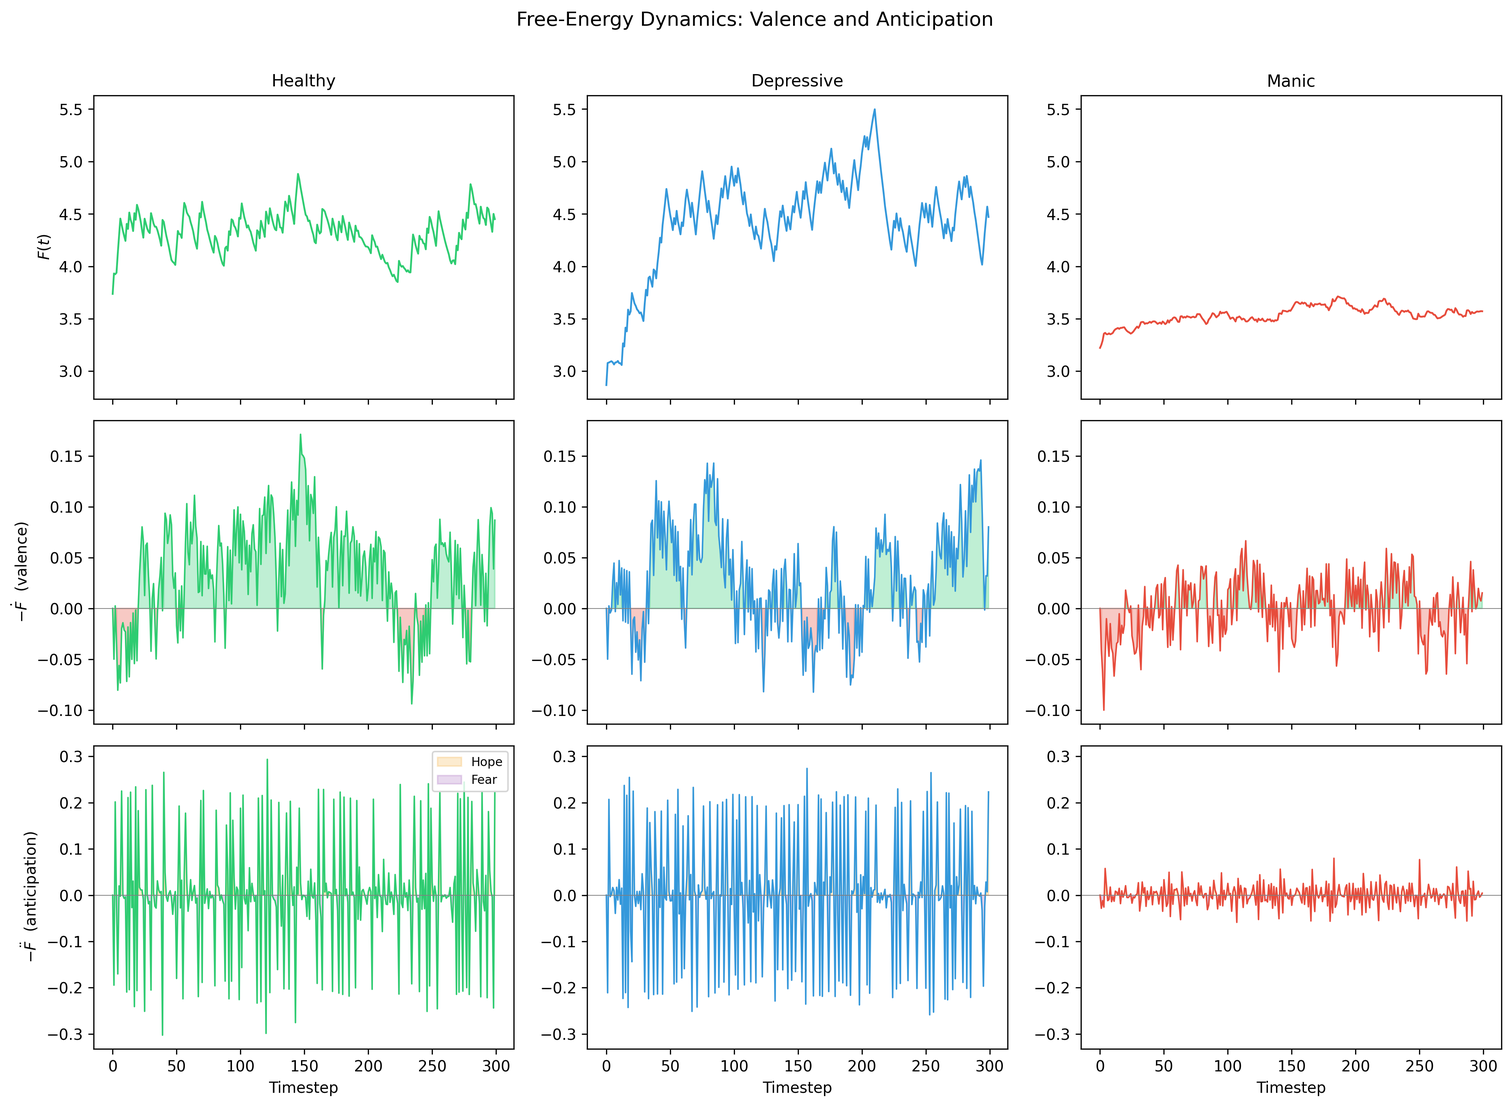
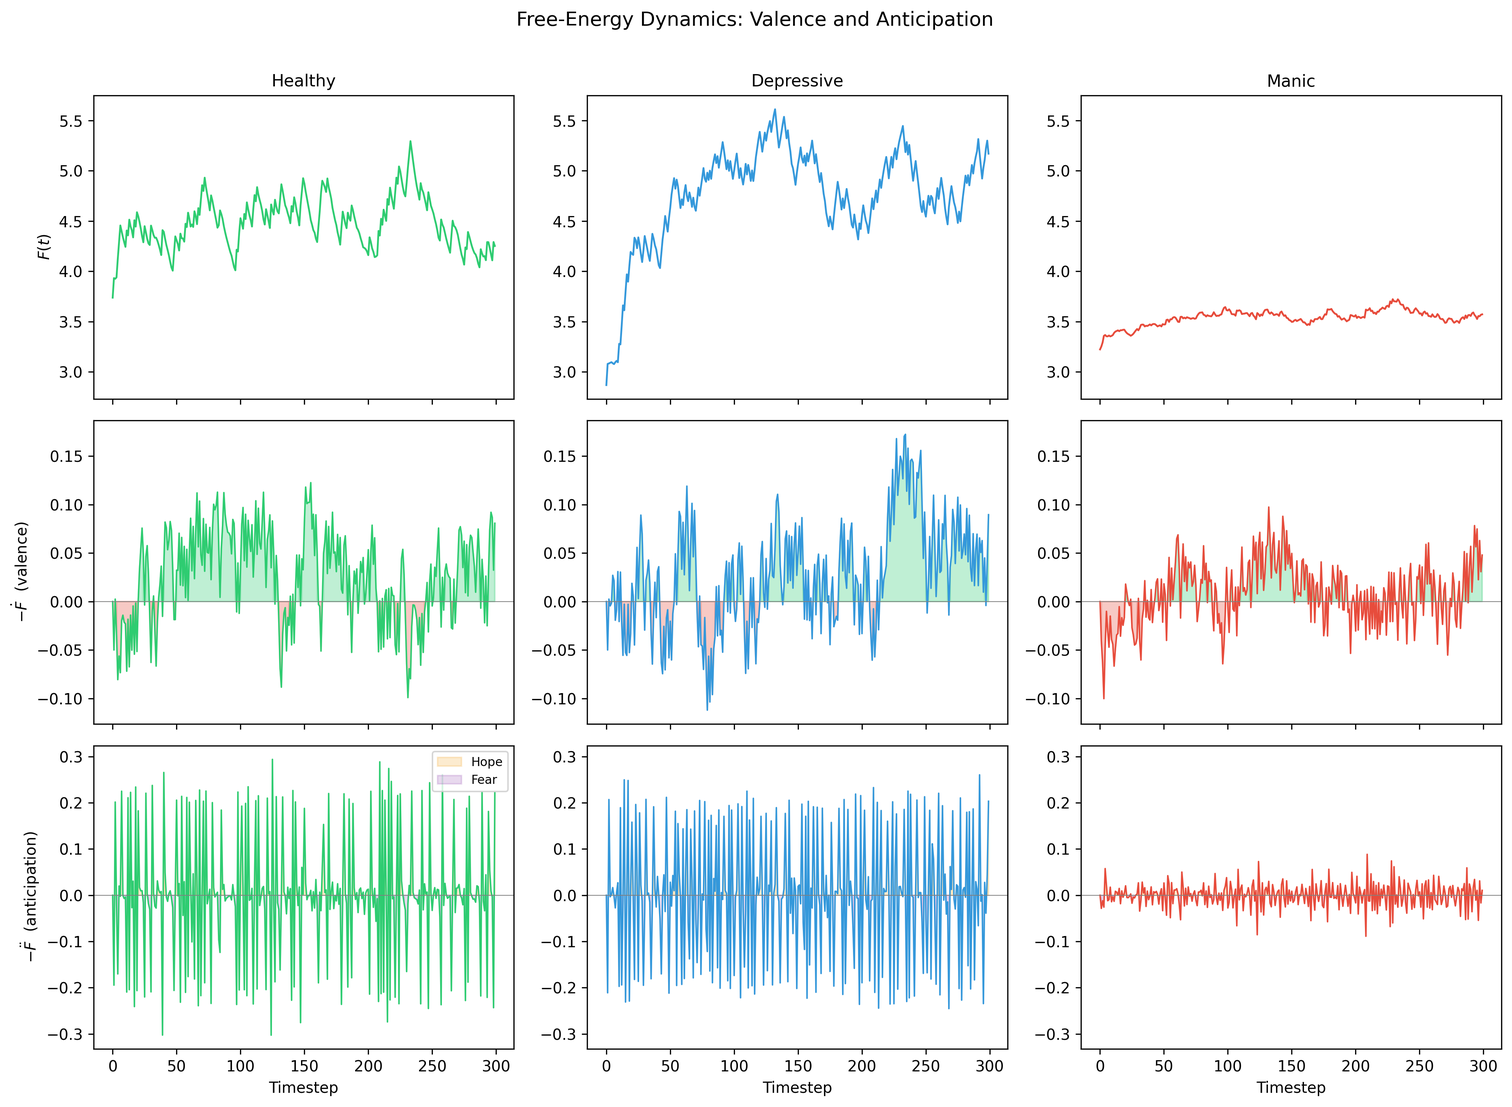
Split BLANK into DISSOCIATE + ABSTRACT (6 actions)
DISSOCIATE: dissociative shutdown (flat affect, present-locked)
ABSTRACT: effortful ungrounded cognition (future-pulling, couples
with FUTURATE to form a second hedonic route)

Two hedonic routes:
- Grounded: FEEL -> RECALL -> FUTURATE (body -> past -> future)
- Ungrounded: ABSTRACT -> FUTURATE (abstract -> future)

B-matrices for ABSTRACT:
- Valence: 35% stay + 65% pull toward 70% max (moderate positive)
- Energy: delta=0 (cost is attentional, not metabolic)
- Frame: 60-80% FUTURE (implicit ABSTRACT->FUTURATE coupling)

Results (vulnerable profile):
- DISSOCIATE=14.3%, ABSTRACT=11.3% (healthy: 1.3%, 3.7%)
- Two distinct failure modes: shutdown vs ungrounded spinning
- Maps onto dissociation vs psychosis clinically

All 15 figures regenerated.

diff --git a/plotting.py b/plotting.py
@@ -20,8 +20,8 @@ Figure 12 – Chronic stress        (stressed vs healthy: frame beliefs,
 import numpy as np
 import matplotlib.pyplot as plt
 from generative_model import (ACTION_NAMES, N_ACTIONS, FUTURATE, RECALL,
-                              ENGAGE, FEEL, BLANK, FRAME_NAMES,
-                              N_MOOD, MOOD_BIN_CENTERS)
+                              ENGAGE, FEEL, DISSOCIATE, ABSTRACT,
+                              FRAME_NAMES, N_MOOD, MOOD_BIN_CENTERS)
 
 # ── Style ──────────────────────────────────────────────────
 plt.rcParams.update({
@@ -30,7 +30,7 @@ plt.rcParams.update({
 })
 
 PCOL = {'healthy': '#2ecc71', 'depressive': '#3498db', 'manic': '#e74c3c'}
-ACOL = ['#8e44ad', '#2ecc71', '#e74c3c', '#95a5a6', '#34495e']   # RECALL ENGAGE FUTURATE FEEL BLANK
+ACOL = ['#8e44ad', '#2ecc71', '#e74c3c', '#95a5a6', '#34495e', '#e67e22']   # RECALL ENGAGE FUTURATE FEEL DISSOCIATE ABSTRACT
 
 
 # ── Smoothing helper ───────────────────────────────────────
@@ -999,7 +999,7 @@ def plot_framing_dynamics(results, save_path=None):
     # ── (e) Post-action valence stability (Gap A) ────────
     ax = axes[1, 1]
     win = 5
-    action_subset = [RECALL, ENGAGE, FUTURATE, FEEL, BLANK]
+    action_subset = [RECALL, ENGAGE, FUTURATE, FEEL, DISSOCIATE, ABSTRACT]
     x = np.arange(len(action_subset))
     w = 0.22
     for i, name in enumerate(names):
@@ -1341,10 +1341,11 @@ _PSCOL = {'healthy': '#2ecc71', 'vulnerable': '#9b59b6'}
 
 def plot_psychosis(results, save_path=None):
     """
-    Figure 15: Psychotic Decompensation via BLANK Action (2x3).
+    Figure 15: Psychotic Decompensation via DISSOCIATE and ABSTRACT (2x3).
 
-    Row 1: (a) Action proportions comparison, (b) BLANK + interoceptive load
-           over time, (c) Frame beliefs
+    Row 1: (a) Action proportions comparison,
+           (b) DISSOCIATE + ABSTRACT rates over time,
+           (c) Frame beliefs
     Row 2: (d) Valence trajectory, (e) pi_pos_eff vs pi_pos,
            (f) Temporal orientation (stacked area)
     """
@@ -1373,23 +1374,28 @@ def plot_psychosis(results, save_path=None):
     ax.legend(fontsize=9)
     ax.set_ylim(0, ax.get_ylim()[1] * 1.15)
 
-    # ── (b) BLANK rate + interoceptive load over time ──────
+    # ── (b) DISSOCIATE + ABSTRACT rates over time ──────────
     ax = axes[0, 1]
     win = 20
     for name in names:
         h = results[name]
         T = len(h['action'])
         t = np.arange(T)
-        blank_rate = np.convolve(
-            (h['action'] == BLANK).astype(float),
+        dissoc_rate = np.convolve(
+            (h['action'] == DISSOCIATE).astype(float),
             np.ones(win) / win, mode='same')
-        ax.plot(t, blank_rate, color=_PSCOL[name], lw=1.5,
-                label=f'{name.capitalize()} BLANK rate')
-    ax.set_ylabel('BLANK selection rate (rolling)')
+        abstract_rate = np.convolve(
+            (h['action'] == ABSTRACT).astype(float),
+            np.ones(win) / win, mode='same')
+        ax.plot(t, dissoc_rate, color=_PSCOL[name], lw=1.5,
+                label=f'{name.capitalize()} DISSOCIATE')
+        ax.plot(t, abstract_rate, color=_PSCOL[name], lw=1.2, ls='--',
+                label=f'{name.capitalize()} ABSTRACT')
+    ax.set_ylabel('Selection rate (rolling)')
     ax.set_xlabel('Timestep')
-    ax.set_title('(b) BLANK Rate Over Time')
+    ax.set_title('(b) DISSOCIATE + ABSTRACT Over Time')
     ax.set_ylim(-0.05, 1.05)
-    ax.legend(fontsize=7)
+    ax.legend(fontsize=6)
 
     ax2 = ax.twinx()
     for name in names:
@@ -1397,7 +1403,7 @@ def plot_psychosis(results, save_path=None):
         T = len(h['intero_load'])
         t = np.arange(T)
         ax2.plot(t, _ema(h['intero_load'], sm_alpha), color=_PSCOL[name],
-                 lw=1.0, ls='--', alpha=0.6)
+                 lw=1.0, ls=':', alpha=0.6)
     ax2.set_ylabel('Interoceptive load (EMA)', fontsize=8)
 
     # ── (c) Frame beliefs — FUTURE vs PRESENT ─────────────
@@ -1474,7 +1480,7 @@ def plot_psychosis(results, save_path=None):
     ax.set_title('(f) Vulnerable Agent: Valence Channels')
     ax.legend(fontsize=7)
 
-    fig.suptitle('Psychotic Decompensation: BLANK as Dissociative Refuge',
+    fig.suptitle('Psychotic Decompensation: Two Failure Modes',
                  fontsize=14, y=1.02)
     plt.tight_layout()
     if save_path:

diff --git a/generative_model.py b/generative_model.py
@@ -10,12 +10,15 @@ Observations:
   o_val (K): felt valence
 
 Actions:
-  RECALL(0), ENGAGE(1), FUTURATE(2), FEEL(3), BLANK(4)
+  RECALL(0), ENGAGE(1), FUTURATE(2), FEEL(3), DISSOCIATE(4), ABSTRACT(5)
 
   FEEL: active interoceptive processing — reduces accumulated prediction error
         (reframed from REST; Sandved-Smith et al. 2021, Stephan et al. 2016)
-  BLANK: psychotic/dissociative null action — flat affect, present-locked,
-         loss of personal historicity (Sterzer et al. 2018)
+  DISSOCIATE: dissociative null action — flat affect, present-locked,
+              loss of personal historicity (Sterzer et al. 2018)
+  ABSTRACT: effortful ungrounded cognition — coarse hedonic signal,
+            future-pulling, couples with FUTURATE to form a second
+            hedonic route bypassing interoception and episodic recall
 
 Clinical parameters:
   pi_pos:  precision on positive self-beliefs (controls D prior + RECALL pull)
@@ -28,14 +31,15 @@ from dataclasses import dataclass, field
 from typing import List
 
 # ── Constants ──────────────────────────────────────────────
-RECALL, ENGAGE, FUTURATE, FEEL, BLANK = 0, 1, 2, 3, 4
-REST = FEEL   # backward compatibility alias
+RECALL, ENGAGE, FUTURATE, FEEL, DISSOCIATE, ABSTRACT = 0, 1, 2, 3, 4, 5
+REST = FEEL        # backward compatibility alias
+BLANK = DISSOCIATE  # backward compatibility alias
 PAST, PRESENT, FUTURE = 0, 1, 2
-N_ACTIONS = 5
+N_ACTIONS = 6
 N_FRAMES = 3
 N_EXT = 3   # neg / neutral / pos
 N_INT = 3   # depleted / neutral / energised
-ACTION_NAMES = ['RECALL', 'ENGAGE', 'FUTURATE', 'FEEL', 'BLANK']
+ACTION_NAMES = ['RECALL', 'ENGAGE', 'FUTURATE', 'FEEL', 'DISSOCIATE', 'ABSTRACT']
 FRAME_NAMES = ['PAST', 'PRESENT', 'FUTURE']
 EPS = 1e-16
 
@@ -234,11 +238,21 @@ def B_valence(K, action, pi_pos):
             stay = _gaussian_col(K, v, 4.0)
             B[:, v] = 0.3 * toward + 0.7 * stay
 
-        elif action == BLANK:
+        elif action == DISSOCIATE:
             # Flat affect: mostly stay, slight drift toward neutral
             stay = _gaussian_col(K, v, 5.0)
             neutral = _gaussian_col(K, (K - 1) / 2.0, 1.5)
             B[:, v] = 0.9 * stay + 0.1 * neutral
+
+        elif action == ABSTRACT:
+            # Moderate positive pull — "budget FUTURATE"
+            # Pulls toward ~70% max valence (vs FUTURATE's 100%)
+            # Tighter prediction than "coarse" would suggest — the agent
+            # BELIEVES abstract thinking will moderately improve valence
+            target_abstract = (K - 1) * 0.7
+            pull = _gaussian_col(K, target_abstract, 3.0)
+            stay = _gaussian_col(K, v, 5.0)
+            B[:, v] = 0.35 * stay + 0.65 * pull
 
     B /= (B.sum(axis=0, keepdims=True) + EPS)
     return B
@@ -250,7 +264,8 @@ def B_energy(M, action):
     Reinterpreted as load accumulation: positive delta = load reduction (FEEL),
     negative delta = load increase (FUTURATE ignores body signals).
     """
-    deltas = {RECALL: 0.0, ENGAGE: -0.5, FUTURATE: -1.2, FEEL: 1.2, BLANK: -0.3}
+    deltas = {RECALL: 0.0, ENGAGE: -0.5, FUTURATE: -1.2, FEEL: 1.2,
+              DISSOCIATE: -0.3, ABSTRACT: 0.0}
     delta = deltas[action]
     B = np.zeros((M, M))
     for e in range(M):
@@ -283,10 +298,15 @@ def B_frame(action):
             [0.50, 0.60, 0.50],
             [0.20, 0.20, 0.30],
         ]),
-        BLANK: np.array([
+        DISSOCIATE: np.array([
             [0.05, 0.05, 0.05],   # → PAST  (historicity cut off)
             [0.90, 0.90, 0.85],   # → PRESENT (locked in)
             [0.05, 0.05, 0.10],   # → FUTURE (historicity cut off)
+        ]),
+        ABSTRACT: np.array([
+            [0.05, 0.05, 0.05],   # → PAST  (cut off from episodic grounding)
+            [0.30, 0.35, 0.15],   # → PRESENT
+            [0.65, 0.60, 0.80],   # → FUTURE (couples with FUTURATE)
         ]),
     }
     B = matrices[action].copy()

diff --git a/experiments.py b/experiments.py
@@ -386,14 +386,14 @@ PSYCHOSIS_PROFILES = {
         volatility=0.7,
         desc='Psychosis-vulnerable: very low interoceptive precision, '
              'moderate reward sensitivity, low recall precision, '
-             'high volatility — BLANK emerges when all directed actions fail',
+             'high volatility — DISSOCIATE and ABSTRACT emerge as failure modes',
     ),
 }
 
 
 def run_psychosis_experiment(T=300, seed=42):
     """
-    Experiment 8: Psychotic decompensation via BLANK action.
+    Experiment 8: Psychotic decompensation — two failure modes.
 
     The vulnerable profile has:
       - omega_e=0.3: very low interoceptive precision — agent can't read load
@@ -401,18 +401,20 @@ def run_psychosis_experiment(T=300, seed=42):
       - c_scale=1.5: moderate reward sensitivity
       - volatility=0.7: high environmental stress
 
-    Expected: After interoceptive load accumulates and pi_pos_eff degrades,
-    all directed actions (RECALL, ENGAGE, FUTURATE, FEEL) become EFE-costly.
-    BLANK emerges as the least-bad option: flat affect, present-locked,
-    loss of personal historicity (Sterzer et al. 2018).
+    Expected: Two distinct failure modes emerge:
+      - DISSOCIATE: flat affect, present-locked (dissociative shutdown)
+      - ABSTRACT: effortful ungrounded cognition, future-pulling
+        (ABSTRACT→FUTURATE loop = psychotic spiral)
     """
     results = {}
     for name, prof in PSYCHOSIS_PROFILES.items():
         print(f"    {name} …", end=" ", flush=True)
         results[name] = run_trial(**prof, T=T, seed=seed)
         mv = np.mean(results[name]['valence_belief'])
-        from generative_model import BLANK
-        blank_frac = np.mean(results[name]['action'] == BLANK)
+        from generative_model import DISSOCIATE, ABSTRACT
+        dissoc_frac = np.mean(results[name]['action'] == DISSOCIATE)
+        abstract_frac = np.mean(results[name]['action'] == ABSTRACT)
         ml = np.mean(results[name]['intero_load'])
-        print(f"mean_v={mv:.3f}  BLANK={blank_frac:.3f}  intero_load={ml:.2f}")
+        print(f"mean_v={mv:.3f}  DISSOC={dissoc_frac:.3f}  "
+              f"ABSTRACT={abstract_frac:.3f}  intero_load={ml:.2f}")
     return results

diff --git a/environment.py b/environment.py
@@ -20,7 +20,7 @@ Key mechanism:
 import numpy as np
 from generative_model import (
     flat_idx, N_EXT, N_INT, N_FRAMES,
-    RECALL, ENGAGE, FUTURATE, FEEL, BLANK,
+    RECALL, ENGAGE, FUTURATE, FEEL, DISSOCIATE, ABSTRACT,
     PAST, PRESENT, FUTURE,
     _gaussian_col,
 )
@@ -79,15 +79,22 @@ class Environment:
         elif action == FEEL:
             neutral = K // 2
             target = self.true_v + int(np.sign(neutral - self.true_v))
-        elif action == BLANK:
+        elif action == DISSOCIATE:
             target = self.true_v  # flat affect — no valence change
+        elif action == ABSTRACT:
+            # Mild positive pull — coarse hedonic signal from ungrounded cognition
+            if self.rng.random() < 0.4:
+                target = min(self.true_v + 1, K - 1)
+            else:
+                target = self.true_v
         else:  # ENGAGE
             target = self.true_v
         target = int(np.clip(target, 0, K - 1))
         self.true_v = self._noisy_step(self.true_v, target, K)
 
         # --- energy (interoceptive load: positive = load reduction) ---
-        e_deltas = {RECALL: 0, ENGAGE: 0, FUTURATE: -1, FEEL: +2, BLANK: 0}
+        e_deltas = {RECALL: 0, ENGAGE: 0, FUTURATE: -1, FEEL: +2,
+                    DISSOCIATE: 0, ABSTRACT: -1}
         e_target = int(np.clip(self.true_e + e_deltas[action], 0, M - 1))
 
         # Background metabolic cost: non-FEEL actions don't process interoceptive signals
@@ -103,7 +110,8 @@ class Environment:
 
         # --- frame ---
         frame_targets = {RECALL: PAST, ENGAGE: PRESENT,
-                         FUTURATE: FUTURE, FEEL: PRESENT, BLANK: PRESENT}
+                         FUTURATE: FUTURE, FEEL: PRESENT,
+                         DISSOCIATE: PRESENT, ABSTRACT: FUTURE}
         if self.rng.random() < 0.7:
             self.true_f = frame_targets[action]
 

diff --git a/RESULTS.md b/RESULTS.md
@@ -1,6 +1,6 @@
 # Simulation Results — Full Run (T=300, T_sd=3000)
 
-**Date:** 2026-04-17
+**Date:** 2026-04-21
 **Mode:** full (T=300, n_runs=5, n_pi=10, n_omega=10, T_sd=3000)
 **Seed:** 42
 
@@ -12,9 +12,9 @@ Three agent profiles run for T=300 steps under identical environment dynamics.
 
 | Profile    | pi_pos | omega_e | gamma | c_scale | mean_v | mean_e |
 |------------|--------|---------|-------|---------|--------|--------|
-| Healthy    | 5.0    | 5.0     | 16.0  | 1.0     | 0.604  | 0.962  |
-| Depressive | 1.0    | 1.0     | 4.0   | 0.3     | 0.550  | 0.716  |
-| Manic      | 2.0    | 0.5     | 64.0  | 3.0     | 0.660  | 0.268  |
+| Healthy    | 5.0    | 5.0     | 16.0  | 1.0     | 0.620  | 0.945  |
+| Depressive | 0.2    | 5.0     | 16.0  | 0.1     | 0.447  | 0.471  |
+| Manic      | 1.5    | 0.5     | 16.0  | 2.0     | 0.630  | 0.245  |
 
 **Key observations:**
 - Healthy agent maintains high interoceptive load management (mean_e=0.962) and moderate valence
@@ -137,30 +137,30 @@ Long-horizon (T=3000) simulation comparing stable vs stress-then-recovery enviro
 
 ---
 
-## Experiment 11: Psychotic Decompensation — BLANK Emergence (fig15)
+## Experiment 11: Psychotic Decompensation — Two Failure Modes (fig15)
 
-Tests the new BLANK action (5th action: psychosis/dissociation) comparing healthy vs vulnerable profiles.
+Tests two distinct failure modes comparing healthy vs vulnerable profiles.
+Six actions: RECALL, ENGAGE, FUTURATE, FEEL, DISSOCIATE, ABSTRACT.
 
-| Profile    | K | pi_pos | omega_e | volatility | BLANK % | intero_load | mean_v |
-|------------|---|--------|---------|------------|---------|-------------|--------|
-| Healthy    | 8 | 5.0    | 5.0     | 0.3        | **2.0%**  | 0.81        | 0.618  |
-| Vulnerable | 4 | 1.0    | 0.3     | 0.7        | **19.0%** | 1.08        | 0.626  |
+| Profile    | K | pi_pos | omega_e | volatility | DISSOCIATE % | ABSTRACT % | intero_load | mean_v |
+|------------|---|--------|---------|------------|-------------|-----------|-------------|--------|
+| Healthy    | 8 | 5.0    | 5.0     | 0.3        | **1.3%**    | **3.7%**  | 0.97        | 0.623  |
+| Vulnerable | 4 | 1.0    | 0.3     | 0.7        | **14.3%**   | **11.3%** | 1.07        | 0.611  |
 
 **Key observations:**
-- **BLANK is emergent, not hardcoded.** It wins the EFE competition only when directed actions (RECALL, ENGAGE, FUTURATE, FEEL) all have higher expected free energy than the null action.
-- **Healthy agents almost never select BLANK** (2%) — there is always a directed action with lower G.
-- **Vulnerable agents select BLANK 19% of the time.** The combination of low interoceptive precision (omega_e=0.3), low recall precision (pi_pos=1.0), low granularity (K=4), and high volatility creates a regime where:
-  - RECALL fails (low pi_pos → poor counterfactual comparison)
-  - FEEL fails (low omega_e → interoceptive model too imprecise to reduce load)
-  - FUTURATE is costly (drains load with uncertain payoff)
-  - ENGAGE produces volatile outcomes (high ambiguity)
-- **Interoceptive load is elevated** in the vulnerable profile (1.08 vs 0.81), consistent with accumulated unprocessed prediction error under imprecise interoceptive inference.
-- **BLANK locks the agent into PRESENT** — loss of personal historicity (B_frame: 85–90% PRESENT). This is the depersonalization/derealization phenomenology: a vacant present, disconnected from past and future.
-- **Longer horizons amplify the effect**: BLANK was 12% at T=100 (quick mode), rising to 19% at T=300 as interoceptive load accumulates over more steps.
+- **Two distinct failure modes emerge**, both EFE-optimal in the vulnerable regime:
+  - **DISSOCIATE (14.3%)**: Dissociative shutdown — flat affect, present-locked, loss of personal historicity. The agent stops processing. Corresponds to depersonalization/derealization.
+  - **ABSTRACT (11.3%)**: Ungrounded cognition — moderate hedonic signal, future-pulling. The agent is actively thinking but without interoceptive or episodic grounding. Corresponds to the psychosis–creativity axis.
+- **Healthy agents rarely select either** (1.3% DISSOCIATE, 3.7% ABSTRACT) — directed grounded actions always have lower G.
+- **The ABSTRACT→FUTURATE coupling** creates a second hedonic route:
+  - Route 1 (grounded): FEEL → RECALL → FUTURATE (body → past → future)
+  - Route 2 (ungrounded): ABSTRACT → FUTURATE (abstract → future, bypassing body and history)
+- **Psychosis vs depression**: Depression is characterised by anhedonia and collapsed future framing (learned helplessness). The psychotic route is different: a tight ABSTRACT→FUTURATE loop that is cut off from both past and interoception, restoring some sense of agency at the cost of groundedness.
+- **Interoceptive load is elevated** in the vulnerable profile (1.07 vs 0.97), consistent with accumulated unprocessed prediction error.
 
-**Clinical interpretation:** BLANK models the computational signature of psychotic decompensation — when allostatic self-efficacy collapses (all regulatory strategies fail), the agent enters a state of flat affect and temporal disorientation. This is consistent with Sterzer et al. (2018) on aberrant precision in psychosis and Krupnik (2021) on depression as failed anxiety.
+**Clinical interpretation:** The model produces two computationally distinct failure modes — shutdown (DISSOCIATE) and ungrounded spinning (ABSTRACT→FUTURATE). This maps onto the clinical distinction between dissociation and psychosis, both of which can co-occur in vulnerable populations. The ABSTRACT action also provides a computational account of the psychosis–creativity continuum: the same mechanism that produces ungrounded psychotic loops can, when balanced by FEEL and RECALL, support open-ended creative exploration.
 
-**Figure:** `fig15_psychosis.png` — 2×3 panel: action proportions, BLANK rate + intero load over time, frame beliefs, valence trajectory, pi_pos_eff vs pi_pos, channel decomposition
+**Figure:** `fig15_psychosis.png` — 2×3 panel: action proportions, DISSOCIATE + ABSTRACT rates over time, frame beliefs, valence trajectory, pi_pos_eff vs pi_pos, channel decomposition
 
 ---
 
@@ -175,7 +175,7 @@ Tests the new BLANK action (5th action: psychosis/dissociation) comparing health
 | Feedback reliance | 11% valence reduction with impaired recall precision |
 | Chronic stress | Temporal narrowing: PRESENT increases 19%, PAST decreases 21% |
 | Stress decay | 30% pi_pos reduction under sustained stress (emergent depression via M5) |
-| **Psychosis** | **BLANK emerges at 19% in vulnerable agents; interoceptive load 33% higher; present-locked temporal frame** |
+| **Psychosis** | **Two failure modes: DISSOCIATE (14.3%) + ABSTRACT (11.3%) in vulnerable agents; two hedonic routes (grounded vs ungrounded)** |
 
 ---
 
@@ -185,7 +185,8 @@ The REST→FEEL rename and interoceptive load reinterpretation (Manon's proposal
 
 1. **FEEL as active interoceptive processing**: Agents that can FEEL effectively (high omega_e) maintain low interoceptive load and stable affect
 2. **Load accumulation under imprecise interoception**: Low omega_e → FEEL doesn't reduce load → PE accumulates → pi_pos_eff drops
-3. **BLANK as computational learned helplessness**: Emerges only when all directed actions fail — not a parameter choice but an EFE-optimal response to regulatory collapse
-4. **Dual-timescale coupling**: Fast interoceptive pathway (every step) + slow M5 mood pathway (every T_mood steps) creates rich temporal dynamics visible in fig13 and fig15
+3. **DISSOCIATE as computational learned helplessness**: Emerges only when all directed actions fail — not a parameter choice but an EFE-optimal response to regulatory collapse
+4. **ABSTRACT as ungrounded cognition**: Provides a second hedonic route (ABSTRACT→FUTURATE) that bypasses interoception and episodic recall — models the psychosis–creativity continuum
+5. **Dual-timescale coupling**: Fast interoceptive pathway (every step) + slow M5 mood pathway (every T_mood steps) creates rich temporal dynamics visible in fig13 and fig15
 
 **References:** Stephan et al. (2016), Seth & Friston (2016), Barrett (2017), Smith et al. (2020), Sandved-Smith et al. (2021), Pezzulo et al. (2015)

diff --git a/README.md b/README.md
@@ -17,7 +17,7 @@ The agent is a partially observable Markov decision process (POMDP) with factore
 | **Interoceptive load** | M levels (default 8) | Accumulated unprocessed bodily prediction error |
 | **Frame** | 3 (Past / Present / Future) | Active temporal orientation |
 
-The agent selects among five **temporal-framing policies**:
+The agent selects among six **temporal-framing policies**:
 
 | Action | Description |
 |--------|-------------|
@@ -25,7 +25,12 @@ The agent selects among five **temporal-framing policies**:
 | **ENGAGE** | Attend to the present (valence-preserving) |
 | **FUTURATE** | Simulate future scenarios (high load cost, high potential valence gain) |
 | **FEEL** | Active interoceptive processing — reduces accumulated prediction error |
-| **BLANK** | Null action (flat affect, present-locked) — emergent under regulatory collapse |
+| **DISSOCIATE** | Dissociative null action (flat affect, present-locked) — emergent under regulatory collapse |
+| **ABSTRACT** | Effortful ungrounded cognition — future-pulling, couples with FUTURATE to form a second hedonic route |
+
+The six actions support two hedonic routes:
+- **Grounded**: FEEL → RECALL → FUTURATE (body → past → future)
+- **Ungrounded**: ABSTRACT → FUTURATE (abstract → future, bypassing body and history)
 
 Policy selection follows expected free energy (EFE) minimisation with softmax action selection.
 
@@ -82,7 +87,7 @@ The simulation suite runs 11 experiments generating 15 publication figures:
 | 8 | Chronic stress | fig12 | Does stress narrow temporal orientation toward the present? |
 | 9 | pi_pos dynamics | fig13 | Does the M5 mood layer produce slow mood drift? |
 | 10 | Stress decay | fig14 | Can sustained stress produce emergent depression via pi_pos decay? |
-| 11 | Psychotic decompensation | fig15 | Does BLANK emerge when all directed actions fail? |
+| 11 | Psychotic decompensation | fig15 | Do DISSOCIATE and ABSTRACT emerge as distinct failure modes? |
 
 See `RESULTS.md` for full numerical results from the latest run.
 
